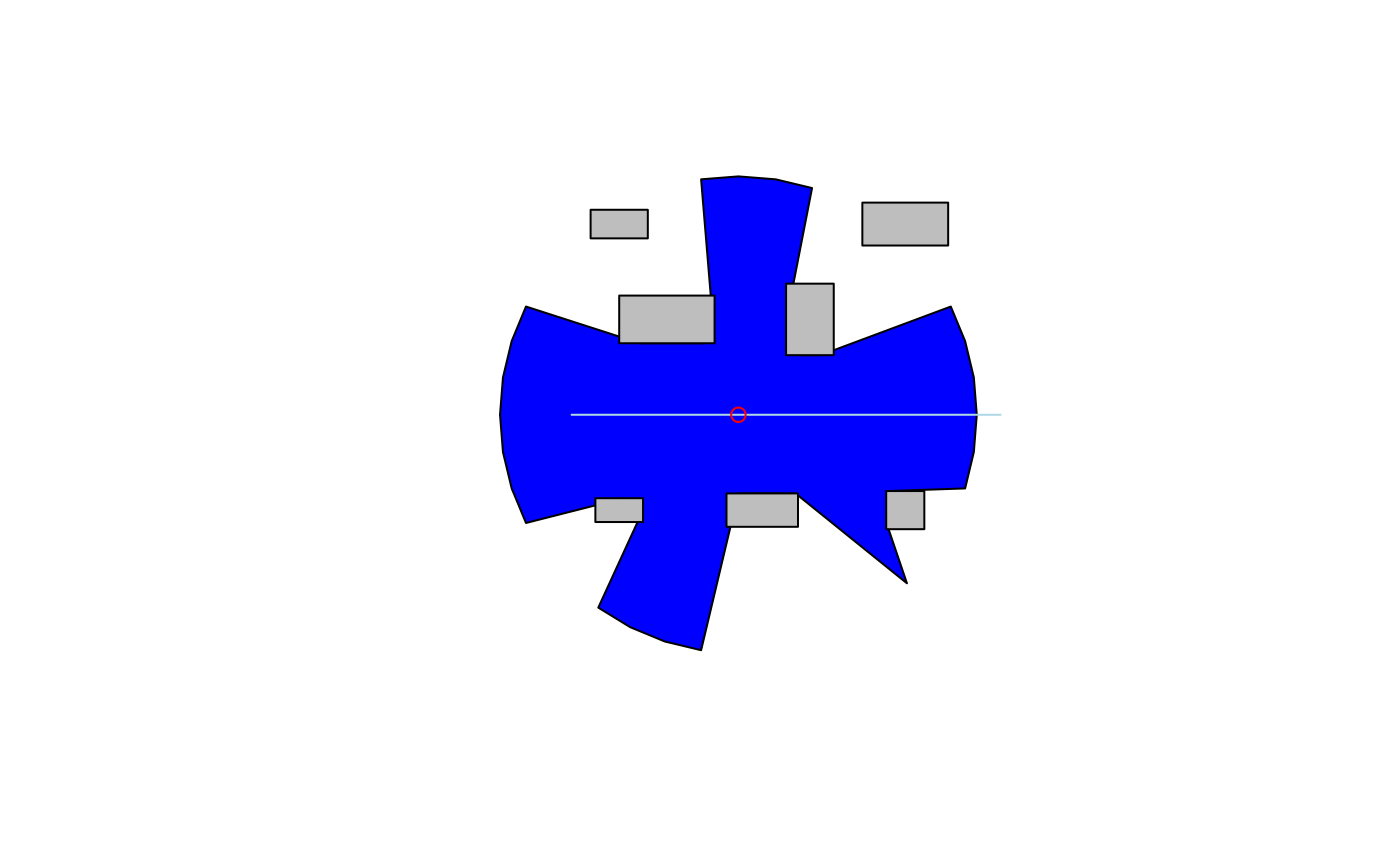
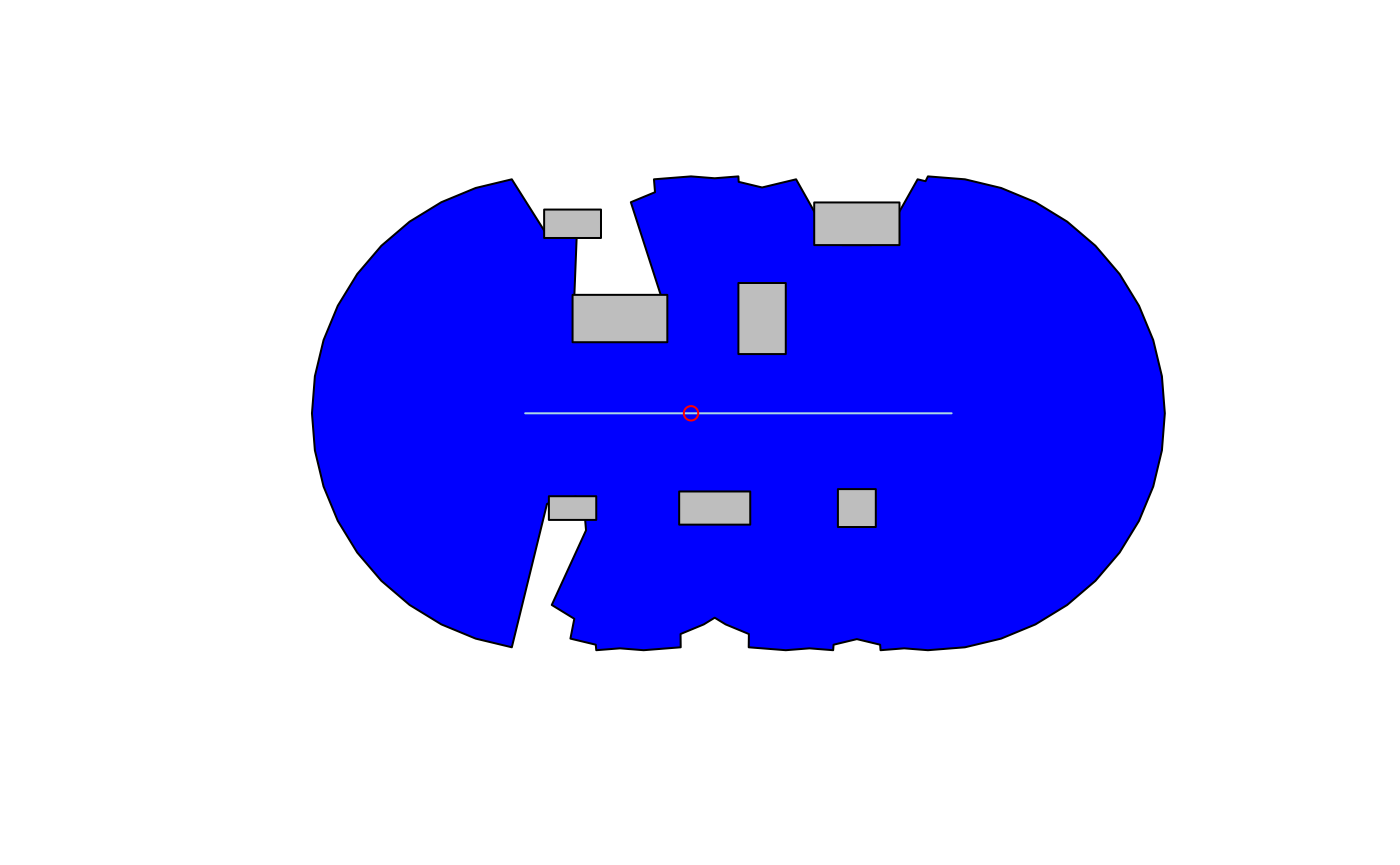
Deploying to gh-pages from @ CityRiverSpaces/visor@a8d935ffef42dddd9ead8df0aaffd752781b18a3 🚀

Changed region(s): [[0.215, 0.1873, 0.86, 0.7491]]

diff --git a/reference/get_isovist.html b/reference/get_isovist.html
@@ -1,5 +1,5 @@
 <!DOCTYPE html>
-<!-- Generated by pkgdown: do not edit by hand --><html lang="en"><head><meta http-equiv="Content-Type" content="text/html; charset=UTF-8"><meta charset="utf-8"><meta http-equiv="X-UA-Compatible" content="IE=edge"><meta name="viewport" content="width=device-width, initial-scale=1, shrink-to-fit=no"><title>Calculate isovist from a viewpoint — get_isovist • visor</title><script src="../deps/jquery-3.6.0/jquery-3.6.0.min.js"></script><meta name="viewport" content="width=device-width, initial-scale=1, shrink-to-fit=no"><link href="../deps/bootstrap-5.3.1/bootstrap.min.css" rel="stylesheet"><script src="../deps/bootstrap-5.3.1/bootstrap.bundle.min.js"></script><link href="../deps/font-awesome-6.5.2/css/all.min.css" rel="stylesheet"><link href="../deps/font-awesome-6.5.2/css/v4-shims.min.css" rel="stylesheet"><script src="../deps/headroom-0.11.0/headroom.min.js"></script><script src="../deps/headroom-0.11.0/jQuery.headroom.min.js"></script><script src="../deps/bootstrap-toc-1.0.1/bootstrap-toc.min.js"></script><script src="../deps/clipboard.js-2.0.11/clipboard.min.js"></script><script src="../deps/search-1.0.0/autocomplete.jquery.min.js"></script><script src="../deps/search-1.0.0/fuse.min.js"></script><script src="../deps/search-1.0.0/mark.min.js"></script><!-- pkgdown --><script src="../pkgdown.js"></script><meta property="og:title" content="Calculate isovist from a viewpoint — get_isovist"><meta name="description" content="Calculate isovist from a viewpoint"><meta property="og:description" content="Calculate isovist from a viewpoint"></head><body>
+<!-- Generated by pkgdown: do not edit by hand --><html lang="en"><head><meta http-equiv="Content-Type" content="text/html; charset=UTF-8"><meta charset="utf-8"><meta http-equiv="X-UA-Compatible" content="IE=edge"><meta name="viewport" content="width=device-width, initial-scale=1, shrink-to-fit=no"><title>Calculate isovist from one or multiple viewpoints — get_isovist • visor</title><script src="../deps/jquery-3.6.0/jquery-3.6.0.min.js"></script><meta name="viewport" content="width=device-width, initial-scale=1, shrink-to-fit=no"><link href="../deps/bootstrap-5.3.1/bootstrap.min.css" rel="stylesheet"><script src="../deps/bootstrap-5.3.1/bootstrap.bundle.min.js"></script><link href="../deps/font-awesome-6.5.2/css/all.min.css" rel="stylesheet"><link href="../deps/font-awesome-6.5.2/css/v4-shims.min.css" rel="stylesheet"><script src="../deps/headroom-0.11.0/headroom.min.js"></script><script src="../deps/headroom-0.11.0/jQuery.headroom.min.js"></script><script src="../deps/bootstrap-toc-1.0.1/bootstrap-toc.min.js"></script><script src="../deps/clipboard.js-2.0.11/clipboard.min.js"></script><script src="../deps/search-1.0.0/autocomplete.jquery.min.js"></script><script src="../deps/search-1.0.0/fuse.min.js"></script><script src="../deps/search-1.0.0/mark.min.js"></script><!-- pkgdown --><script src="../pkgdown.js"></script><meta property="og:title" content="Calculate isovist from one or multiple viewpoints — get_isovist"><meta name="description" content="Calculate isovist from one or multiple viewpoints"><meta property="og:description" content="Calculate isovist from one or multiple viewpoints"></head><body>
     <a href="#main" class="visually-hidden-focusable">Skip to contents</a>
 
 
@@ -30,43 +30,53 @@
 <div class="row">
   <main id="main" class="col-md-9"><div class="page-header">
 
-      <h1>Calculate isovist from a viewpoint</h1>
+      <h1>Calculate isovist from one or multiple viewpoints</h1>
 
       <div class="d-none name"><code>get_isovist.Rd</code></div>
     </div>
 
     <div class="ref-description section level2">
-    <p>Calculate isovist from a viewpoint</p>
+    <p>Calculate isovist from one or multiple viewpoints</p>
     </div>
 
     <div class="section level2">
     <h2 id="ref-usage">Usage<a class="anchor" aria-label="anchor" href="#ref-usage"></a></h2>
-    <div class="sourceCode"><pre class="sourceCode r"><code><span><span class="fu">get_isovist</span><span class="op">(</span><span class="va">vpoint</span>, occluders <span class="op">=</span> <span class="cn">NULL</span>, rayno <span class="op">=</span> <span class="fl">41</span>, raylen <span class="op">=</span> <span class="fl">100</span><span class="op">)</span></span></code></pre></div>
+    <div class="sourceCode"><pre class="sourceCode r"><code><span><span class="fu">get_isovist</span><span class="op">(</span></span>
+<span>  <span class="va">viewpoints</span>,</span>
+<span>  occluders <span class="op">=</span> <span class="cn">NULL</span>,</span>
+<span>  ray_num <span class="op">=</span> <span class="fl">40</span>,</span>
+<span>  ray_length <span class="op">=</span> <span class="fl">100</span>,</span>
+<span>  remove_holes <span class="op">=</span> <span class="cn">TRUE</span></span>
+<span><span class="op">)</span></span></code></pre></div>
     </div>
 
     <div class="section level2">
     <h2 id="arguments">Arguments<a class="anchor" aria-label="anchor" href="#arguments"></a></h2>
 
 
-<dl><dt id="arg-vpoint">vpoint<a class="anchor" aria-label="anchor" href="#arg-vpoint"></a></dt>
-<dd><p>object of class sf, sfc or sfg</p></dd>
+<dl><dt id="arg-viewpoints">viewpoints<a class="anchor" aria-label="anchor" href="#arg-viewpoints"></a></dt>
+<dd><p>object of class sf_POINT or sfc_POINT</p></dd>
 
 
 <dt id="arg-occluders">occluders<a class="anchor" aria-label="anchor" href="#arg-occluders"></a></dt>
 <dd><p>object of class sf, sfc or sfg</p></dd>
 
 
-<dt id="arg-rayno">rayno<a class="anchor" aria-label="anchor" href="#arg-rayno"></a></dt>
+<dt id="arg-ray-num">ray_num<a class="anchor" aria-label="anchor" href="#arg-ray-num"></a></dt>
 <dd><p>number of rays</p></dd>
 
 
-<dt id="arg-raylen">raylen<a class="anchor" aria-label="anchor" href="#arg-raylen"></a></dt>
+<dt id="arg-ray-length">ray_length<a class="anchor" aria-label="anchor" href="#arg-ray-length"></a></dt>
 <dd><p>length of rays</p></dd>
+
+
+<dt id="arg-remove-holes">remove_holes<a class="anchor" aria-label="anchor" href="#arg-remove-holes"></a></dt>
+<dd><p>whether to remove holes from the overall isovist geometry</p></dd>
 
 </dl></div>
     <div class="section level2">
     <h2 id="value">Value<a class="anchor" aria-label="anchor" href="#value"></a></h2>
-    <p>object of class sfc_POLYGON</p>
+    <p>object of class sfc_POLYGON or sfc_MULTIPOLYGON</p>
     </div>
 
   </main><aside class="col-md-3"><nav id="toc" aria-label="Table of contents"><h2>On this page</h2>

diff --git a/reference/occlude_rays.html b/reference/occlude_rays.html
@@ -1,5 +1,5 @@
 <!DOCTYPE html>
-<!-- Generated by pkgdown: do not edit by hand --><html lang="en"><head><meta http-equiv="Content-Type" content="text/html; charset=UTF-8"><meta charset="utf-8"><meta http-equiv="X-UA-Compatible" content="IE=edge"><meta name="viewport" content="width=device-width, initial-scale=1, shrink-to-fit=no"><title>Get rays from the viewpoints within a maximum isovist — get_rays • visor</title><script src="../deps/jquery-3.6.0/jquery-3.6.0.min.js"></script><meta name="viewport" content="width=device-width, initial-scale=1, shrink-to-fit=no"><link href="../deps/bootstrap-5.3.1/bootstrap.min.css" rel="stylesheet"><script src="../deps/bootstrap-5.3.1/bootstrap.bundle.min.js"></script><link href="../deps/font-awesome-6.5.2/css/all.min.css" rel="stylesheet"><link href="../deps/font-awesome-6.5.2/css/v4-shims.min.css" rel="stylesheet"><script src="../deps/headroom-0.11.0/headroom.min.js"></script><script src="../deps/headroom-0.11.0/jQuery.headroom.min.js"></script><script src="../deps/bootstrap-toc-1.0.1/bootstrap-toc.min.js"></script><script src="../deps/clipboard.js-2.0.11/clipboard.min.js"></script><script src="../deps/search-1.0.0/autocomplete.jquery.min.js"></script><script src="../deps/search-1.0.0/fuse.min.js"></script><script src="../deps/search-1.0.0/mark.min.js"></script><!-- pkgdown --><script src="../pkgdown.js"></script><meta property="og:title" content="Get rays from the viewpoints within a maximum isovist — get_rays"><meta name="description" content="Get rays from the viewpoints within a maximum isovist"><meta property="og:description" content="Get rays from the viewpoints within a maximum isovist"></head><body>
+<!-- Generated by pkgdown: do not edit by hand --><html lang="en"><head><meta http-equiv="Content-Type" content="text/html; charset=UTF-8"><meta charset="utf-8"><meta http-equiv="X-UA-Compatible" content="IE=edge"><meta name="viewport" content="width=device-width, initial-scale=1, shrink-to-fit=no"><title>Determine the non-occluded segments of the rays — occlude_rays • visor</title><script src="../deps/jquery-3.6.0/jquery-3.6.0.min.js"></script><meta name="viewport" content="width=device-width, initial-scale=1, shrink-to-fit=no"><link href="../deps/bootstrap-5.3.1/bootstrap.min.css" rel="stylesheet"><script src="../deps/bootstrap-5.3.1/bootstrap.bundle.min.js"></script><link href="../deps/font-awesome-6.5.2/css/all.min.css" rel="stylesheet"><link href="../deps/font-awesome-6.5.2/css/v4-shims.min.css" rel="stylesheet"><script src="../deps/headroom-0.11.0/headroom.min.js"></script><script src="../deps/headroom-0.11.0/jQuery.headroom.min.js"></script><script src="../deps/bootstrap-toc-1.0.1/bootstrap-toc.min.js"></script><script src="../deps/clipboard.js-2.0.11/clipboard.min.js"></script><script src="../deps/search-1.0.0/autocomplete.jquery.min.js"></script><script src="../deps/search-1.0.0/fuse.min.js"></script><script src="../deps/search-1.0.0/mark.min.js"></script><!-- pkgdown --><script src="../pkgdown.js"></script><meta property="og:title" content="Determine the non-occluded segments of the rays — occlude_rays"><meta name="description" content="Determine the non-occluded segments of the rays"><meta property="og:description" content="Determine the non-occluded segments of the rays"></head><body>
     <a href="#main" class="visually-hidden-focusable">Skip to contents</a>
 
 
@@ -30,34 +30,30 @@
 <div class="row">
   <main id="main" class="col-md-9"><div class="page-header">
 
-      <h1>Get rays from the viewpoints within a maximum isovist</h1>
+      <h1>Determine the non-occluded segments of the rays</h1>
 
-      <div class="d-none name"><code>get_rays.Rd</code></div>
+      <div class="d-none name"><code>occlude_rays.Rd</code></div>
     </div>
 
     <div class="ref-description section level2">
-    <p>Get rays from the viewpoints within a maximum isovist</p>
+    <p>Determine the non-occluded segments of the rays</p>
     </div>
 
     <div class="section level2">
     <h2 id="ref-usage">Usage<a class="anchor" aria-label="anchor" href="#ref-usage"></a></h2>
-    <div class="sourceCode"><pre class="sourceCode r"><code><span><span class="fu">get_rays</span><span class="op">(</span><span class="va">viewpoints</span>, ray_num <span class="op">=</span> <span class="fl">40</span>, ray_length <span class="op">=</span> <span class="fl">100</span><span class="op">)</span></span></code></pre></div>
+    <div class="sourceCode"><pre class="sourceCode r"><code><span><span class="fu">occlude_rays</span><span class="op">(</span><span class="va">rays</span>, occluders <span class="op">=</span> <span class="cn">NULL</span><span class="op">)</span></span></code></pre></div>
     </div>
 
     <div class="section level2">
     <h2 id="arguments">Arguments<a class="anchor" aria-label="anchor" href="#arguments"></a></h2>
 
 
-<dl><dt id="arg-viewpoints">viewpoints<a class="anchor" aria-label="anchor" href="#arg-viewpoints"></a></dt>
-<dd><p>object of class sf_POINT or sfc_POINT</p></dd>
+<dl><dt id="arg-rays">rays<a class="anchor" aria-label="anchor" href="#arg-rays"></a></dt>
+<dd><p>object of class sf_LINESTRING</p></dd>
 
 
-<dt id="arg-ray-num">ray_num<a class="anchor" aria-label="anchor" href="#arg-ray-num"></a></dt>
-<dd><p>number of rays</p></dd>
-
-
-<dt id="arg-ray-length">ray_length<a class="anchor" aria-label="anchor" href="#arg-ray-length"></a></dt>
-<dd><p>length of rays</p></dd>
+<dt id="arg-occluders">occluders<a class="anchor" aria-label="anchor" href="#arg-occluders"></a></dt>
+<dd><p>object of class sf, sfc or sfg</p></dd>
 
 </dl></div>
     <div class="section level2">

diff --git a/reference/merge_isovists.html b/reference/merge_isovists.html
@@ -1,0 +1,83 @@
+<!DOCTYPE html>
+<!-- Generated by pkgdown: do not edit by hand --><html lang="en"><head><meta http-equiv="Content-Type" content="text/html; charset=UTF-8"><meta charset="utf-8"><meta http-equiv="X-UA-Compatible" content="IE=edge"><meta name="viewport" content="width=device-width, initial-scale=1, shrink-to-fit=no"><title>Merge the viewpoint isovists — merge_isovists • visor</title><script src="../deps/jquery-3.6.0/jquery-3.6.0.min.js"></script><meta name="viewport" content="width=device-width, initial-scale=1, shrink-to-fit=no"><link href="../deps/bootstrap-5.3.1/bootstrap.min.css" rel="stylesheet"><script src="../deps/bootstrap-5.3.1/bootstrap.bundle.min.js"></script><link href="../deps/font-awesome-6.5.2/css/all.min.css" rel="stylesheet"><link href="../deps/font-awesome-6.5.2/css/v4-shims.min.css" rel="stylesheet"><script src="../deps/headroom-0.11.0/headroom.min.js"></script><script src="../deps/headroom-0.11.0/jQuery.headroom.min.js"></script><script src="../deps/bootstrap-toc-1.0.1/bootstrap-toc.min.js"></script><script src="../deps/clipboard.js-2.0.11/clipboard.min.js"></script><script src="../deps/search-1.0.0/autocomplete.jquery.min.js"></script><script src="../deps/search-1.0.0/fuse.min.js"></script><script src="../deps/search-1.0.0/mark.min.js"></script><!-- pkgdown --><script src="../pkgdown.js"></script><meta property="og:title" content="Merge the viewpoint isovists — merge_isovists"><meta name="description" content="Merge the viewpoint isovists"><meta property="og:description" content="Merge the viewpoint isovists"></head><body>
+    <a href="#main" class="visually-hidden-focusable">Skip to contents</a>
+
+
+    <nav class="navbar navbar-expand-lg fixed-top bg-light" data-bs-theme="light" aria-label="Site navigation"><div class="container">
+
+    <a class="navbar-brand me-2" href="../index.html">visor</a>
+
+    <small class="nav-text text-muted me-auto" data-bs-toggle="tooltip" data-bs-placement="bottom" title="">0.0.0.9000</small>
+
+
+    <button class="navbar-toggler" type="button" data-bs-toggle="collapse" data-bs-target="#navbar" aria-controls="navbar" aria-expanded="false" aria-label="Toggle navigation">
+      <span class="navbar-toggler-icon"></span>
+    </button>
+
+    <div id="navbar" class="collapse navbar-collapse ms-3">
+      <ul class="navbar-nav me-auto"><li class="active nav-item"><a class="nav-link" href="../reference/index.html">Reference</a></li>
+<li class="nav-item dropdown">
+  <button class="nav-link dropdown-toggle" type="button" id="dropdown-articles" data-bs-toggle="dropdown" aria-expanded="false" aria-haspopup="true">Articles</button>
+  <ul class="dropdown-menu" aria-labelledby="dropdown-articles"><li><a class="dropdown-item" href="../articles/isovist.html">Isovist analysis</a></li>
+  </ul></li>
+      </ul><ul class="navbar-nav"><li class="nav-item"><form class="form-inline" role="search">
+ <input class="form-control" type="search" name="search-input" id="search-input" autocomplete="off" aria-label="Search site" placeholder="Search for" data-search-index="../search.json"></form></li>
+      </ul></div>
+
+
+  </div>
+</nav><div class="container template-reference-topic">
+<div class="row">
+  <main id="main" class="col-md-9"><div class="page-header">
+
+      <h1>Merge the viewpoint isovists</h1>
+
+      <div class="d-none name"><code>merge_isovists.Rd</code></div>
+    </div>
+
+    <div class="ref-description section level2">
+    <p>Merge the viewpoint isovists</p>
+    </div>
+
+    <div class="section level2">
+    <h2 id="ref-usage">Usage<a class="anchor" aria-label="anchor" href="#ref-usage"></a></h2>
+    <div class="sourceCode"><pre class="sourceCode r"><code><span><span class="fu">merge_isovists</span><span class="op">(</span><span class="va">isovists</span>, remove_holes <span class="op">=</span> <span class="cn">TRUE</span><span class="op">)</span></span></code></pre></div>
+    </div>
+
+    <div class="section level2">
+    <h2 id="arguments">Arguments<a class="anchor" aria-label="anchor" href="#arguments"></a></h2>
+
+
+<dl><dt id="arg-isovists">isovists<a class="anchor" aria-label="anchor" href="#arg-isovists"></a></dt>
+<dd><p>object of class sf, sfc or sfg</p></dd>
+
+
+<dt id="arg-remove-holes">remove_holes<a class="anchor" aria-label="anchor" href="#arg-remove-holes"></a></dt>
+<dd><p>whether to remove holes from the overall isovist geometry</p></dd>
+
+</dl></div>
+    <div class="section level2">
+    <h2 id="value">Value<a class="anchor" aria-label="anchor" href="#value"></a></h2>
+    <p>object of class sfc_POLYGON or sfc_MULTIPOLYGON</p>
+    </div>
+
+  </main><aside class="col-md-3"><nav id="toc" aria-label="Table of contents"><h2>On this page</h2>
+    </nav></aside></div>
+
+
+    <footer><div class="pkgdown-footer-left">
+  <p>Developed by Claudiu Forgaci, Francesco Nattino, Netherlands eScience Center.</p>
+</div>
+
+<div class="pkgdown-footer-right">
+  <p>Site built with <a href="https://pkgdown.r-lib.org/" class="external-link">pkgdown</a> 2.1.1.</p>
+</div>
+
+    </footer></div>
+
+
+
+
+
+  </body></html>
+

diff --git a/reference/get_isovists.html b/reference/get_isovists.html
@@ -1,0 +1,79 @@
+<!DOCTYPE html>
+<!-- Generated by pkgdown: do not edit by hand --><html lang="en"><head><meta http-equiv="Content-Type" content="text/html; charset=UTF-8"><meta charset="utf-8"><meta http-equiv="X-UA-Compatible" content="IE=edge"><meta name="viewport" content="width=device-width, initial-scale=1, shrink-to-fit=no"><title>Construct isovist from (partially occluded) rays — get_isovists • visor</title><script src="../deps/jquery-3.6.0/jquery-3.6.0.min.js"></script><meta name="viewport" content="width=device-width, initial-scale=1, shrink-to-fit=no"><link href="../deps/bootstrap-5.3.1/bootstrap.min.css" rel="stylesheet"><script src="../deps/bootstrap-5.3.1/bootstrap.bundle.min.js"></script><link href="../deps/font-awesome-6.5.2/css/all.min.css" rel="stylesheet"><link href="../deps/font-awesome-6.5.2/css/v4-shims.min.css" rel="stylesheet"><script src="../deps/headroom-0.11.0/headroom.min.js"></script><script src="../deps/headroom-0.11.0/jQuery.headroom.min.js"></script><script src="../deps/bootstrap-toc-1.0.1/bootstrap-toc.min.js"></script><script src="../deps/clipboard.js-2.0.11/clipboard.min.js"></script><script src="../deps/search-1.0.0/autocomplete.jquery.min.js"></script><script src="../deps/search-1.0.0/fuse.min.js"></script><script src="../deps/search-1.0.0/mark.min.js"></script><!-- pkgdown --><script src="../pkgdown.js"></script><meta property="og:title" content="Construct isovist from (partially occluded) rays — get_isovists"><meta name="description" content="Construct isovist from (partially occluded) rays"><meta property="og:description" content="Construct isovist from (partially occluded) rays"></head><body>
+    <a href="#main" class="visually-hidden-focusable">Skip to contents</a>
+
+
+    <nav class="navbar navbar-expand-lg fixed-top bg-light" data-bs-theme="light" aria-label="Site navigation"><div class="container">
+
+    <a class="navbar-brand me-2" href="../index.html">visor</a>
+
+    <small class="nav-text text-muted me-auto" data-bs-toggle="tooltip" data-bs-placement="bottom" title="">0.0.0.9000</small>
+
+
+    <button class="navbar-toggler" type="button" data-bs-toggle="collapse" data-bs-target="#navbar" aria-controls="navbar" aria-expanded="false" aria-label="Toggle navigation">
+      <span class="navbar-toggler-icon"></span>
+    </button>
+
+    <div id="navbar" class="collapse navbar-collapse ms-3">
+      <ul class="navbar-nav me-auto"><li class="active nav-item"><a class="nav-link" href="../reference/index.html">Reference</a></li>
+<li class="nav-item dropdown">
+  <button class="nav-link dropdown-toggle" type="button" id="dropdown-articles" data-bs-toggle="dropdown" aria-expanded="false" aria-haspopup="true">Articles</button>
+  <ul class="dropdown-menu" aria-labelledby="dropdown-articles"><li><a class="dropdown-item" href="../articles/isovist.html">Isovist analysis</a></li>
+  </ul></li>
+      </ul><ul class="navbar-nav"><li class="nav-item"><form class="form-inline" role="search">
+ <input class="form-control" type="search" name="search-input" id="search-input" autocomplete="off" aria-label="Search site" placeholder="Search for" data-search-index="../search.json"></form></li>
+      </ul></div>
+
+
+  </div>
+</nav><div class="container template-reference-topic">
+<div class="row">
+  <main id="main" class="col-md-9"><div class="page-header">
+
+      <h1>Construct isovist from (partially occluded) rays</h1>
+
+      <div class="d-none name"><code>get_isovists.Rd</code></div>
+    </div>
+
+    <div class="ref-description section level2">
+    <p>Construct isovist from (partially occluded) rays</p>
+    </div>
+
+    <div class="section level2">
+    <h2 id="ref-usage">Usage<a class="anchor" aria-label="anchor" href="#ref-usage"></a></h2>
+    <div class="sourceCode"><pre class="sourceCode r"><code><span><span class="fu">get_isovists</span><span class="op">(</span><span class="va">rays</span><span class="op">)</span></span></code></pre></div>
+    </div>
+
+    <div class="section level2">
+    <h2 id="arguments">Arguments<a class="anchor" aria-label="anchor" href="#arguments"></a></h2>
+
+
+<dl><dt id="arg-rays">rays<a class="anchor" aria-label="anchor" href="#arg-rays"></a></dt>
+<dd><p>object of class sf, including the "isovist_id" attribute</p></dd>
+
+</dl></div>
+    <div class="section level2">
+    <h2 id="value">Value<a class="anchor" aria-label="anchor" href="#value"></a></h2>
+    <p>object of class sfc_POLYGON</p>
+    </div>
+
+  </main><aside class="col-md-3"><nav id="toc" aria-label="Table of contents"><h2>On this page</h2>
+    </nav></aside></div>
+
+
+    <footer><div class="pkgdown-footer-left">
+  <p>Developed by Claudiu Forgaci, Francesco Nattino, Netherlands eScience Center.</p>
+</div>
+
+<div class="pkgdown-footer-right">
+  <p>Site built with <a href="https://pkgdown.r-lib.org/" class="external-link">pkgdown</a> 2.1.1.</p>
+</div>
+
+    </footer></div>
+
+
+
+
+
+  </body></html>
+

diff --git a/articles/isovist.html b/articles/isovist.html
@@ -86,7 +86,7 @@
 <div class="sourceCode" id="cb3"><pre class="downlit sourceCode r">
 <code class="sourceCode R"><span><span class="va">vpoints</span> <span class="op">&lt;-</span> <span class="fu"><a href="../reference/get_viewpoints.html">get_viewpoints</a></span><span class="op">(</span><span class="va">line</span>, <span class="fl">1</span><span class="op">)</span></span></code></pre></div>
 <div class="sourceCode" id="cb4"><pre class="downlit sourceCode r">
-<code class="sourceCode R"><span><span class="va">isovist</span> <span class="op">&lt;-</span> <span class="fu"><a href="../reference/get_isovist.html">get_isovist</a></span><span class="op">(</span><span class="va">vpoints</span><span class="op">[</span><span class="fl">4</span><span class="op">]</span>, <span class="va">occluders</span>, raylen <span class="op">=</span> <span class="fl">5</span><span class="op">)</span></span></code></pre></div>
+<code class="sourceCode R"><span><span class="va">isovist</span> <span class="op">&lt;-</span> <span class="fu"><a href="../reference/get_isovist.html">get_isovist</a></span><span class="op">(</span><span class="va">vpoints</span>, <span class="va">occluders</span>, ray_length <span class="op">=</span> <span class="fl">5</span><span class="op">)</span></span></code></pre></div>
 <div class="sourceCode" id="cb5"><pre class="downlit sourceCode r">
 <code class="sourceCode R"><span><span class="fu"><a href="https://rdrr.io/r/graphics/plot.default.html" class="external-link">plot</a></span><span class="op">(</span><span class="va">isovist</span>, col <span class="op">=</span> <span class="st">"blue"</span><span class="op">)</span></span>
 <span><span class="fu"><a href="https://rdrr.io/r/graphics/plot.default.html" class="external-link">plot</a></span><span class="op">(</span><span class="va">occluders_geom</span>, col <span class="op">=</span> <span class="st">"grey"</span>, add <span class="op">=</span> <span class="cn">TRUE</span><span class="op">)</span></span>

diff --git a/reference/index.html b/reference/index.html
@@ -52,34 +52,16 @@
         <dd>Create a polygon representing an occluder</dd>
       </dl><dl><dt>
 
-          <code><a href="get_furthest_vertex.html">get_furthest_vertex()</a></code>
-
-        </dt>
-        <dd>Get furthest vertex from a set of points</dd>
-      </dl><dl><dt>
-
           <code><a href="get_isovist.html">get_isovist()</a></code>
 
         </dt>
-        <dd>Calculate isovist from a viewpoint</dd>
-      </dl><dl><dt>
-
-          <code><a href="get_rays.html">get_rays()</a></code>
-
-        </dt>
-        <dd>Get rays from a viewpoint within a maximum isovist</dd>
+        <dd>Calculate isovist from one or multiple viewpoints</dd>
       </dl><dl><dt>
 
           <code><a href="get_viewpoints.html">get_viewpoints()</a></code>
 
         </dt>
         <dd>Get viewpoints along a line</dd>
-      </dl><dl><dt>
-
-          <code><a href="process_rays.html">process_rays()</a></code>
-
-        </dt>
-        <dd>Cast rays to points</dd>
       </dl></div>
   </main></div>
 
